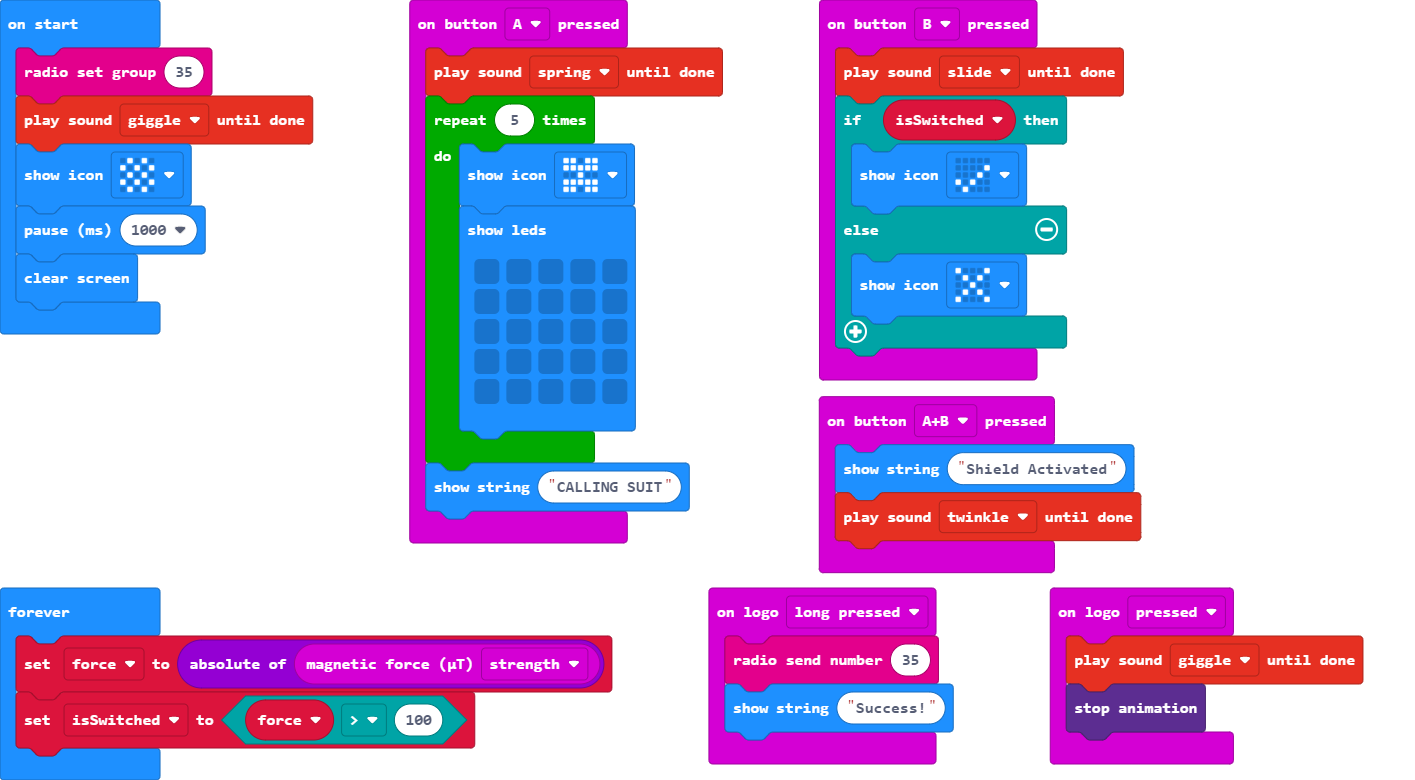
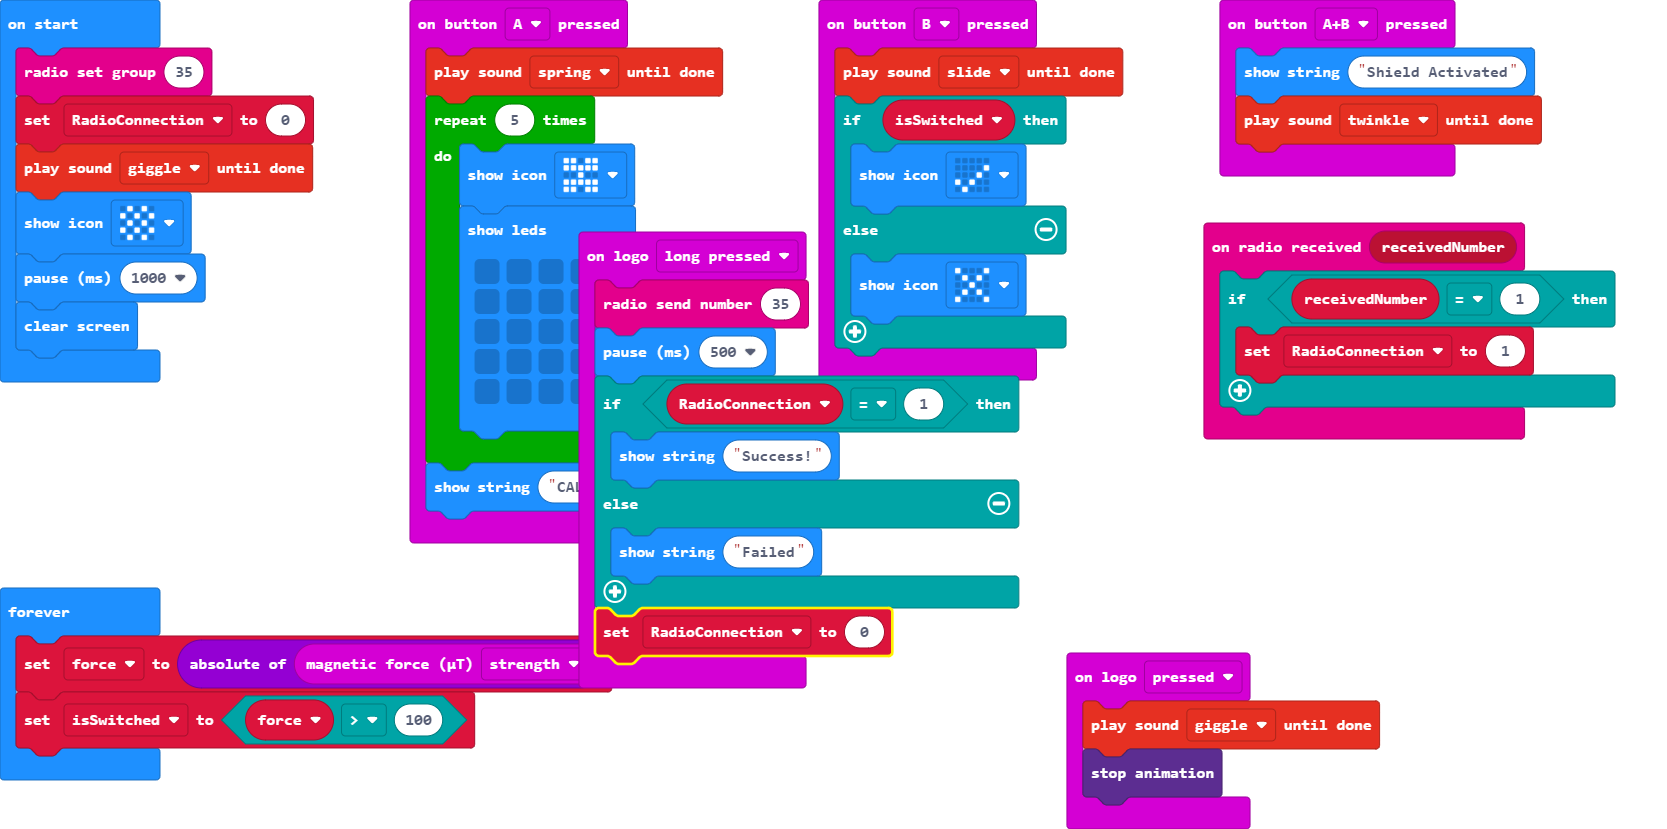
If The Other microbit is in range then it shown success and if other microbit is not in range it shown Falied

diff --git a/main.ts b/main.ts
@@ -1,9 +1,20 @@
 enum RadioMessage {
     message1 = 49434
 }
+radio.onReceivedNumber(function (receivedNumber) {
+    if (receivedNumber == 1) {
+        RadioConnection = 1
+    }
+})
 input.onLogoEvent(TouchButtonEvent.LongPressed, function () {
     radio.sendNumber(35)
-    basic.showString("Success!")
+    basic.pause(500)
+    if (RadioConnection == 1) {
+        basic.showString("Success!")
+    } else {
+        basic.showString("Failed")
+    }
+    RadioConnection = 0
 })
 input.onButtonPressed(Button.A, function () {
     soundExpression.spring.playUntilDone()
@@ -37,7 +48,9 @@ input.onLogoEvent(TouchButtonEvent.Pressed, function () {
 })
 let force = 0
 let isSwitched = false
+let RadioConnection = 0
 radio.setGroup(35)
+RadioConnection = 0
 soundExpression.giggle.playUntilDone()
 basic.showIcon(IconNames.Chessboard)
 basic.pause(1000)
